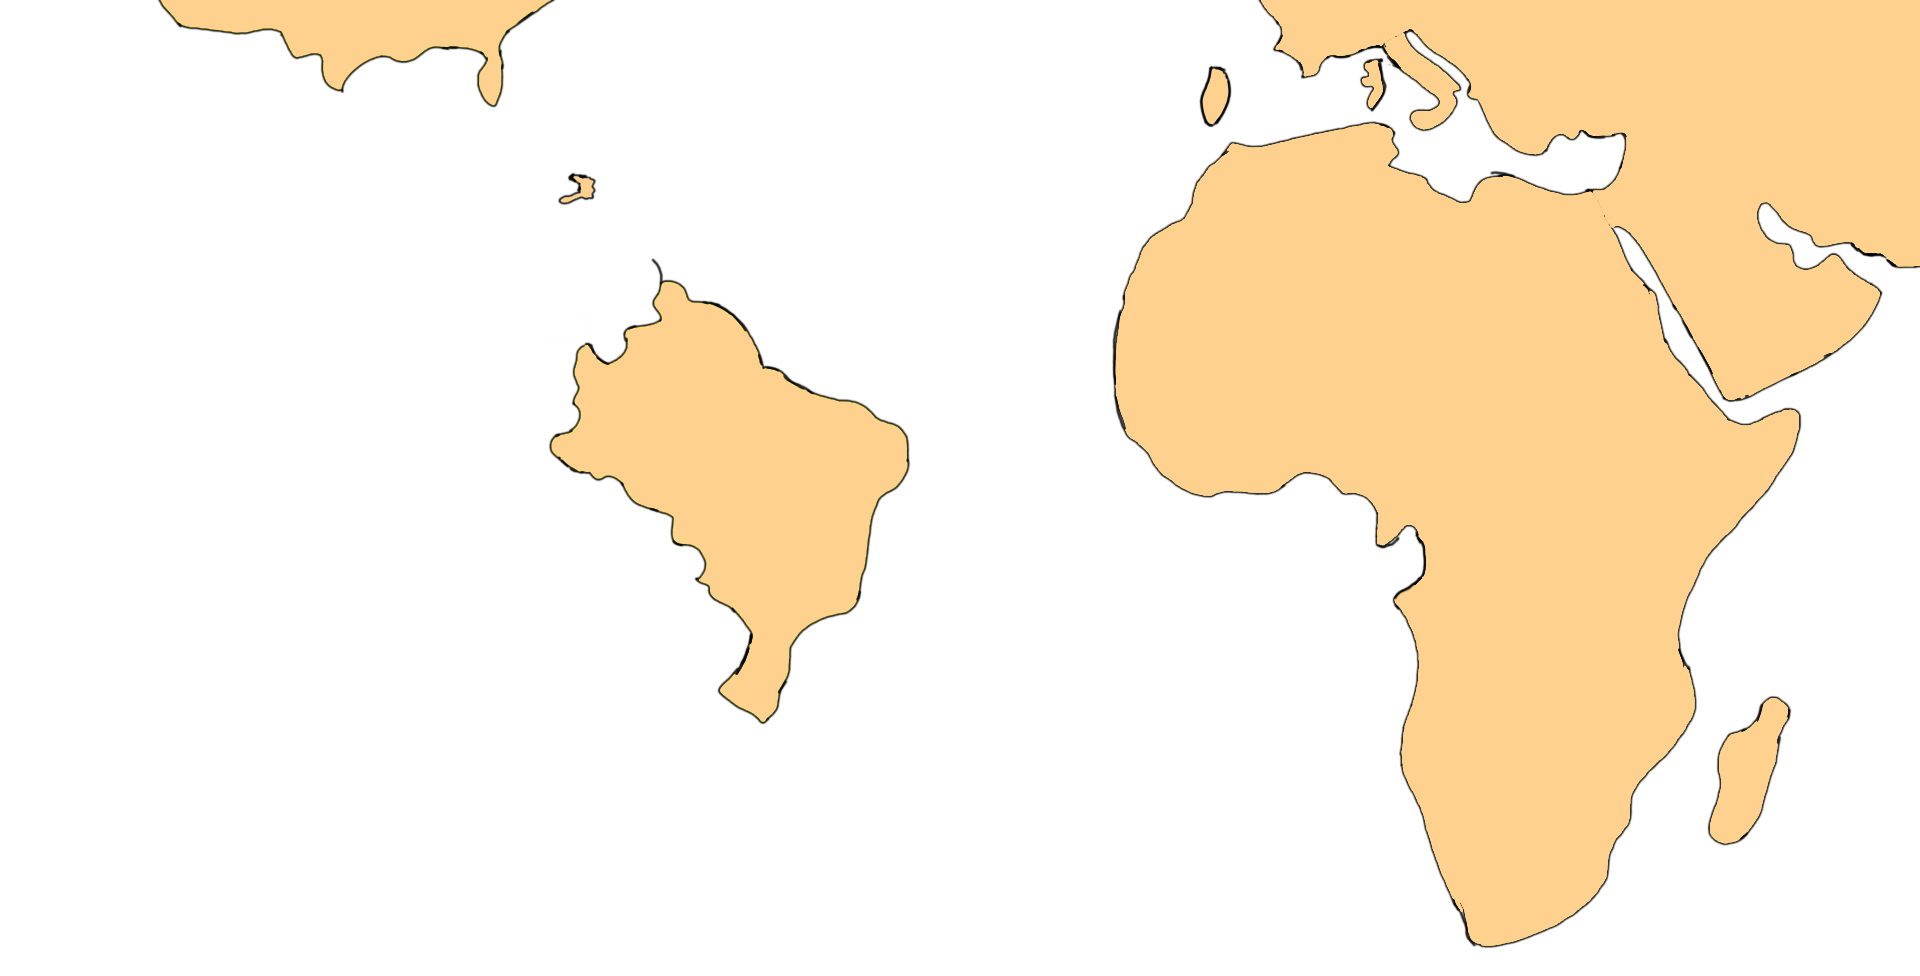
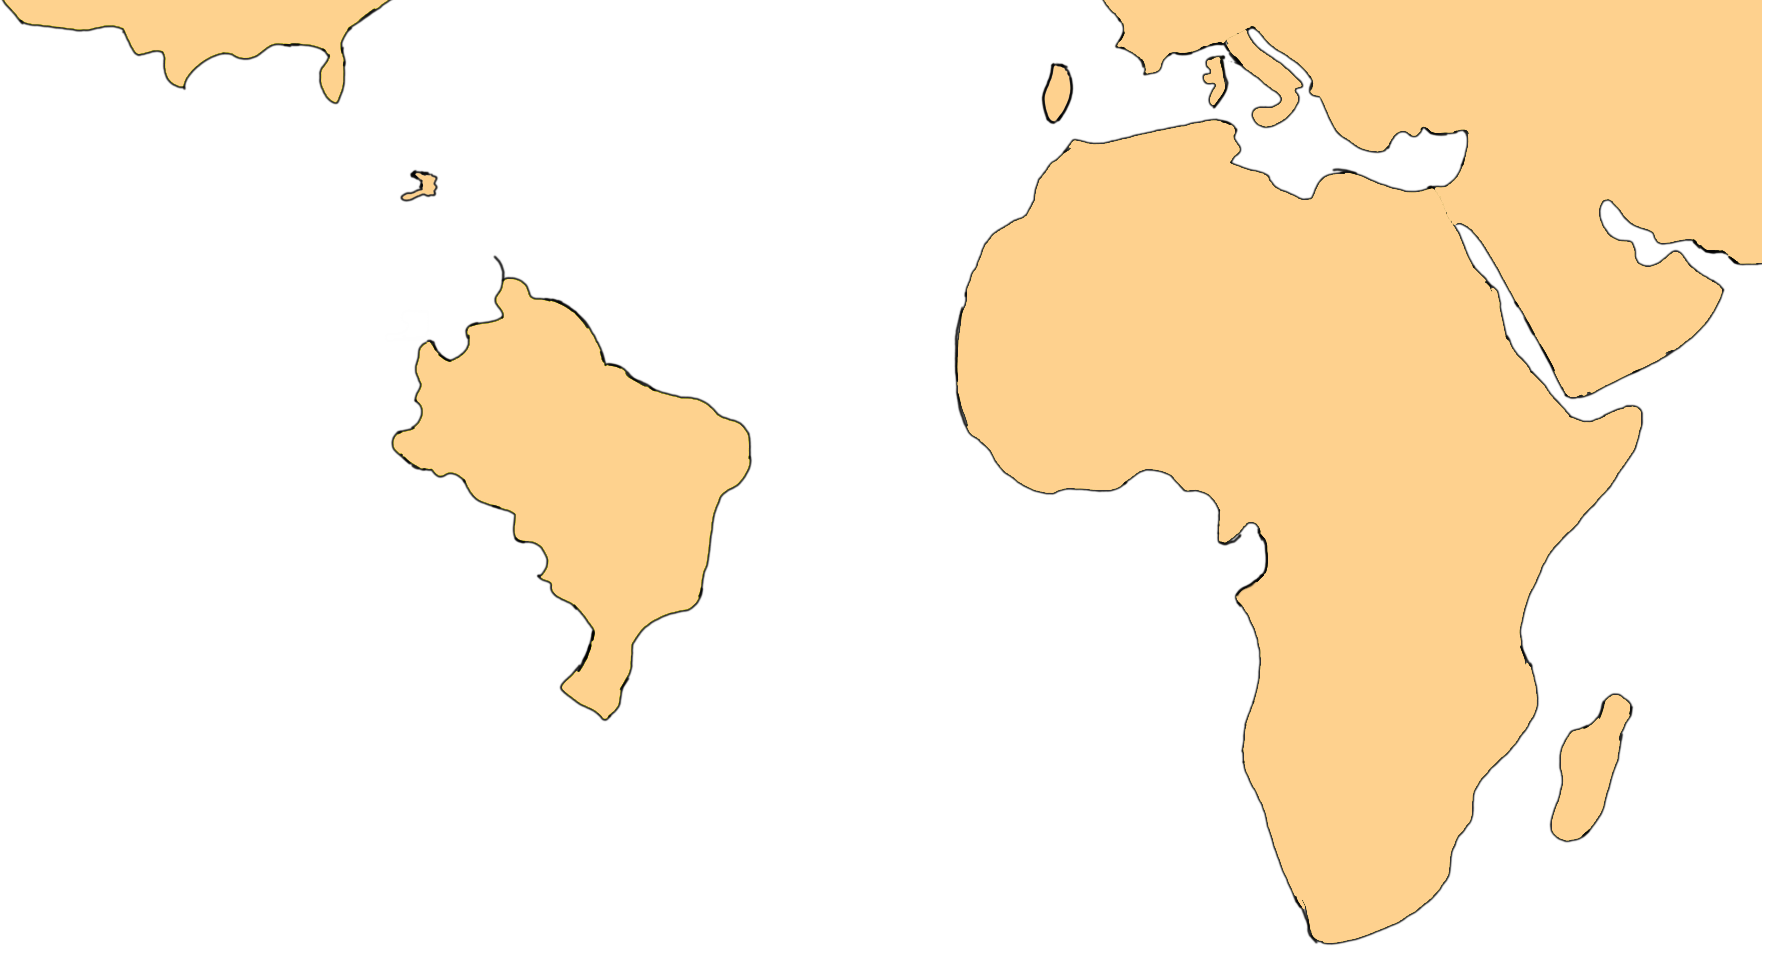
finishe

diff --git a/src/components/items/countrys.js b/src/components/items/countrys.js
@@ -26,172 +26,272 @@ import ge from '../../image/countrys/ge.png';
 
 const Holder =styled.div`
   justify-content: center;
-  position:relative;
 `;
 const Map = styled.div`
   margin:0 auto;
-  width:1100px;
+  width:1020px;
+  height:9px;
+  position:relative;
 `;
 const Nonspeaking = styled.img`
-  width:1100px;
-  
+  width:1020px;
 `;
 
 const Mexico = styled.img`
-  width:150px;
+  width:151px;
   position: absolute;
-  left:306px;
-  top:12px;
+  left:5px;
+  top:10px;
+  border-radius: 15px 300px 300px 300px;
 `;
 const Guatemala = styled.img`
   width:30px;
   position: absolute;
-  left:418px;
+  left:118px;
   top:97px;
+  border-radius: 30spx 15px 30px 15px;
 `;
 const Salvador = styled.img`
+  height:20px;
   width: 20px;
+  border-top-right-radius: 20px 8px;
+  border-bottom-right-radius: 20px 8px;
+  border-top-left-radius: 3px 6px;
+  z-index:1;
   position: absolute;
-  left: 434px;
+  left: 134px;
   top: 120px;
+  
 `;
 const Honduras =styled.img`
   width: 30px;
   position: absolute;
-  left: 437px;
+  left: 137px;
   top: 115px;
+  z-index:2;
+  border-top-left-radius: 3px 6px;
+  border-top-right-radius: 15px 7px;
+  border-bottom-left-radius: 25px 15px;
+  border-bottom-right-radius: 20px 10px;
+  
+
 `;
 const Nicaragua = styled.img`
   width: 30px;
   position: absolute;
-  left: 443px;
+  left: 143px;
   top: 120px;
+  
+  border-top-left-radius: 30px 20px;
+  border-top-right-radius: 0px 0px;
+  border-bottom-left-radius: 0px 0px;
+  border-bottom-right-radius: 0px 0px;
   `;
 const Costarica = styled.img`
   width: 30px;
   position: absolute;
-  left: 440px;
+  left: 140px;
   top: 140px;
+  
+  border-top-left-radius: 0px 0px;
+  border-top-right-radius: 30px 20px;
+  border-bottom-left-radius: 20px 30px;
+  border-bottom-right-radius: 0px 0px;
 `;
 const Panama = styled.img`
   width: 35px;
   position: absolute;
-  left: 467px;
+  left: 167px;
   top: 152px;
+  border-top-left-radius: 5px 5px;
+  border-top-right-radius: 8px 8px;
+  border-bottom-left-radius: 8px 8px;
+  border-bottom-right-radius: 8px px;
 `;
 const Colombia = styled.img`
   width: 60px;
   position: absolute;
-  left: 492px;
+  left: 192px;
   top: 146px;
+  
+  border-top-left-radius: 30px 50px;
+  border-top-right-radius: 0px 0px;
+  border-bottom-left-radius: 0px 0px;
+  border-bottom-right-radius: 0px 0px;
 `;
 const Venezuela = styled.img`
   width: 72px;
   position: absolute;
-  left: 518px;
-  top: 142px;
+  left: 219px;
+  top: 141px;
+  
+  border-top-left-radius: 0px 0px;
+  border-top-right-radius: 0px 0px;
+  border-bottom-left-radius: 65px 60px;
+  border-bottom-right-radius: 0px 0px;
 `;
 const Ecuador = styled.img`
   width:37px;
   position: absolute;
-  left: 471px;
+  left: 171px;
   top: 191px;
+  
+  border-top-right-radius: 0px 0px;
+  border-bottom-right-radius: 35px 30px;
 `;
 const Peru = styled.img`
   width:88px;
   position: absolute;
-  left: 470px;
+  left: 170px;
   top: 210px;
+  border-top-right-radius: 60px 100px;
+  border-bottom-left-radius: 0px 0px;
 `;
 const Bolivia = styled.img`
   width:72px;
   position: absolute;
-  left: 545px;
-  top: 272px;
+  left: 244px;
+  top: 271px;
+  
 `;
 const Chile = styled.img`
   width:90px;
   position: absolute;
-  left: 534px;
+  left: 234px;
   top: 320px;
+  
+  border-top-right-radius: 90px 180px;
+  border-bottom-left-radius: 90px 140px;
 `;
 const Paraguay = styled.img`
   width:59px;
   position: absolute;
-  left: 582px;
-  top: 329px;
+  left: 282px;
+  top: 328px;
+  
+  border-bottom-left-radius: 59px 59px;
 `;
 const Uruguay = styled.img`
-  width:35px;
+  width:30px;
   position: absolute;
-  left: 615px;
-  top: 383px;
+  left: 318px;
+  top: 385px;
 `;
 const Argentina= styled.img`
   width:76px;
   position: absolute;
-  left: 556px;
+  left: 256px;
   top: 343px;
+  
+  border-top-left-radius: 20px 30px;
+  border-bottom-left-radius: 50px 100px;
 `;
 const Cuba =styled.img`
   width:40px;
   position: absolute;
-  left: 470px;
+  left: 170px;
   top: 80px;
 `;
 const RD= styled.img`
   width:22px;
   position: absolute;
-  left: 548px;
+  left: 248px;
   top: 100px;
+  border-top-left-radius: 0px 0px;
+  border-top-right-radius: 0px 0px;
+  border-bottom-left-radius: 0px 0px;
+  border-bottom-right-radius: 0px 0px;
 `;
 const PuertoR =styled.img`
   width:14px;
   position: absolute;
-  left: 580px;
+  left: 280px;
   top: 110px;
+  border-top-left-radius: 0px 0px;
+  border-top-right-radius: 0px 0px;
+  border-bottom-left-radius: 0px 0px;
+  border-bottom-right-radius: 0px 0px;
 
 `;
 const Espana= styled.img`
-  width:53px;
+  width:52px;
   position: absolute;
-  left: 902px;
+  left: 604px;
   top: 24px;
 `;
 const GE = styled.img`
   width:35px;
   position: absolute;
-  left: 1002px;
-  top: 300px;
+  left: 698px;
+  top: 296px;
+`;
+const Info = styled.div`
+  height:100px;
+  width:350px;
+  position: absolute;
+  left:250px;
+  top:1px;
+  text-align:center;
+`;
+const CNAME = styled.p`
+margin:10 auto;
+height:20px;
+font-size:20px;
+
+`;
+const CCname = styled.p`
+height:20px;
+margin:10 auto;
+font-size:20px;
 `;
 export default class SSCountrys extends Component{
+  constructor() {
+    super();
+    this.state = {
+      name:null,
+      cityname:null
+    }
+  }
   render(){
+    const pickACountry=(CName,city)=>{
+      this.setState({
+        name: CName,
+        cityname:city
+      });
+    }
     return(
       <Holder>
         <Map>
           <Nonspeaking src={nonrspeaking} alt={nonrspeaking}/>
-          <Mexico src={mexico} alt={mexico}/>
-          <Guatemala src={guatemala} alt={guatemala}/>
-          <Salvador src={salvador} alt={salvador}/>
-          <Honduras src={honduras} alt={honduras}/>
-          <Nicaragua src={nicaragua} alt={nicaragua}/>
-          <Costarica src={costarica} alt={costarica}/>
-          <Panama src={panama} alt={panama}/>
-          <Colombia src={colombia} alt={colombia}/>
-          <Venezuela src={venezuela} alt={venezuela}/>
-          <GE src={ge} alt={ge}/>
-          <Peru src={peru} alt={peru}/>
-          <Ecuador src={ecuador} alt={ecuador}/>
-          <Bolivia src={bolivia} alt={bolivia}/>
-          <Chile src={chile} alt={chile}/>
-          <Paraguay src={paraguay} alt={paraguay}/>
-          <Uruguay src={uruguay} alt={uruguay}/>
-          <Argentina src={argentina} alt={argentina}/>
-          <Cuba src={cuba} alt={cuba}/>
-          <RD src={rd} alt={rd}/>
-          <PuertoR src={puertorico} alt={puertorico}/>
-          <Espana src={espana} alt={espana}/>
+          <Mexico src={mexico} alt={mexico} onClick={()=>pickACountry("Mexico","Mexico city")}/>
+          <Guatemala src={guatemala} alt={guatemala} onClick={()=>pickACountry("Guatemala","Guatemala city")}/>
+          <Honduras src={honduras} alt={honduras} onClick={()=>pickACountry("Honduras","Tegucigalpa")}/>
+          <Salvador src={salvador} alt={salvador} onClick={()=>pickACountry("El Salvador","San Salvador")}/>
+          
+          <Nicaragua src={nicaragua} alt={nicaragua} onClick={()=>pickACountry("Nicaragua","Managua")}/>
+          <Costarica src={costarica} alt={costarica} onClick={()=>pickACountry("Costa Rica","San José")}/>
+          <Panama src={panama} alt={panama} onClick={()=>pickACountry("Panama","Panama city")}/>
+          <Colombia src={colombia} alt={colombia} onClick={()=>pickACountry("Colombia","bogota")}/>
+          <Venezuela src={venezuela} alt={venezuela} onClick={()=>pickACountry("Venezuela","Caracas")}/>
+          <Peru src={peru} alt={peru} onClick={()=>pickACountry("Peru","Lima")}/>
+          <Ecuador src={ecuador} alt={ecuador} onClick={()=>pickACountry("Ecuador","Quito")}/>
+          <Bolivia src={bolivia} alt={bolivia} onClick={()=>pickACountry("Bolivia","Sucre y La Paz")}/>
+          <Chile src={chile} alt={chile} onClick={()=>pickACountry("Chile","Santiago")}/>
+          <Argentina src={argentina} alt={argentina} onClick={()=>pickACountry("Argentina","Buenos Aires")}/>
+          <Paraguay src={paraguay} alt={paraguay} onClick={()=>pickACountry("Paraguay","Asunción")}/>
+          <Uruguay src={uruguay} alt={uruguay} onClick={()=>pickACountry("Uruguay","Montevideo")}/>
+          
+          <Cuba src={cuba} alt={cuba} onClick={()=>pickACountry("Cuba","Havana city")}/>
+          <RD src={rd} alt={rd} onClick={()=>pickACountry("Republic Dominican","Santo Domingo")}/>
+          <PuertoR src={puertorico} alt={puertorico} onClick={()=>pickACountry("Puerto Rico","San Juan")}/>
+          <Espana src={espana} alt={espana} onClick={()=>pickACountry("España","Madrid")}/>
+          <GE src={ge} alt={ge} onClick={()=>pickACountry("Guinea Ecuatorial","Malabo")}/>
+          <Info>
+            <CNAME>Country: {this.state.name}</CNAME>
+            <CCname>City: {this.state.cityname}</CCname>
+          </Info>
         </Map>
+        
       </Holder>
     )
   }
